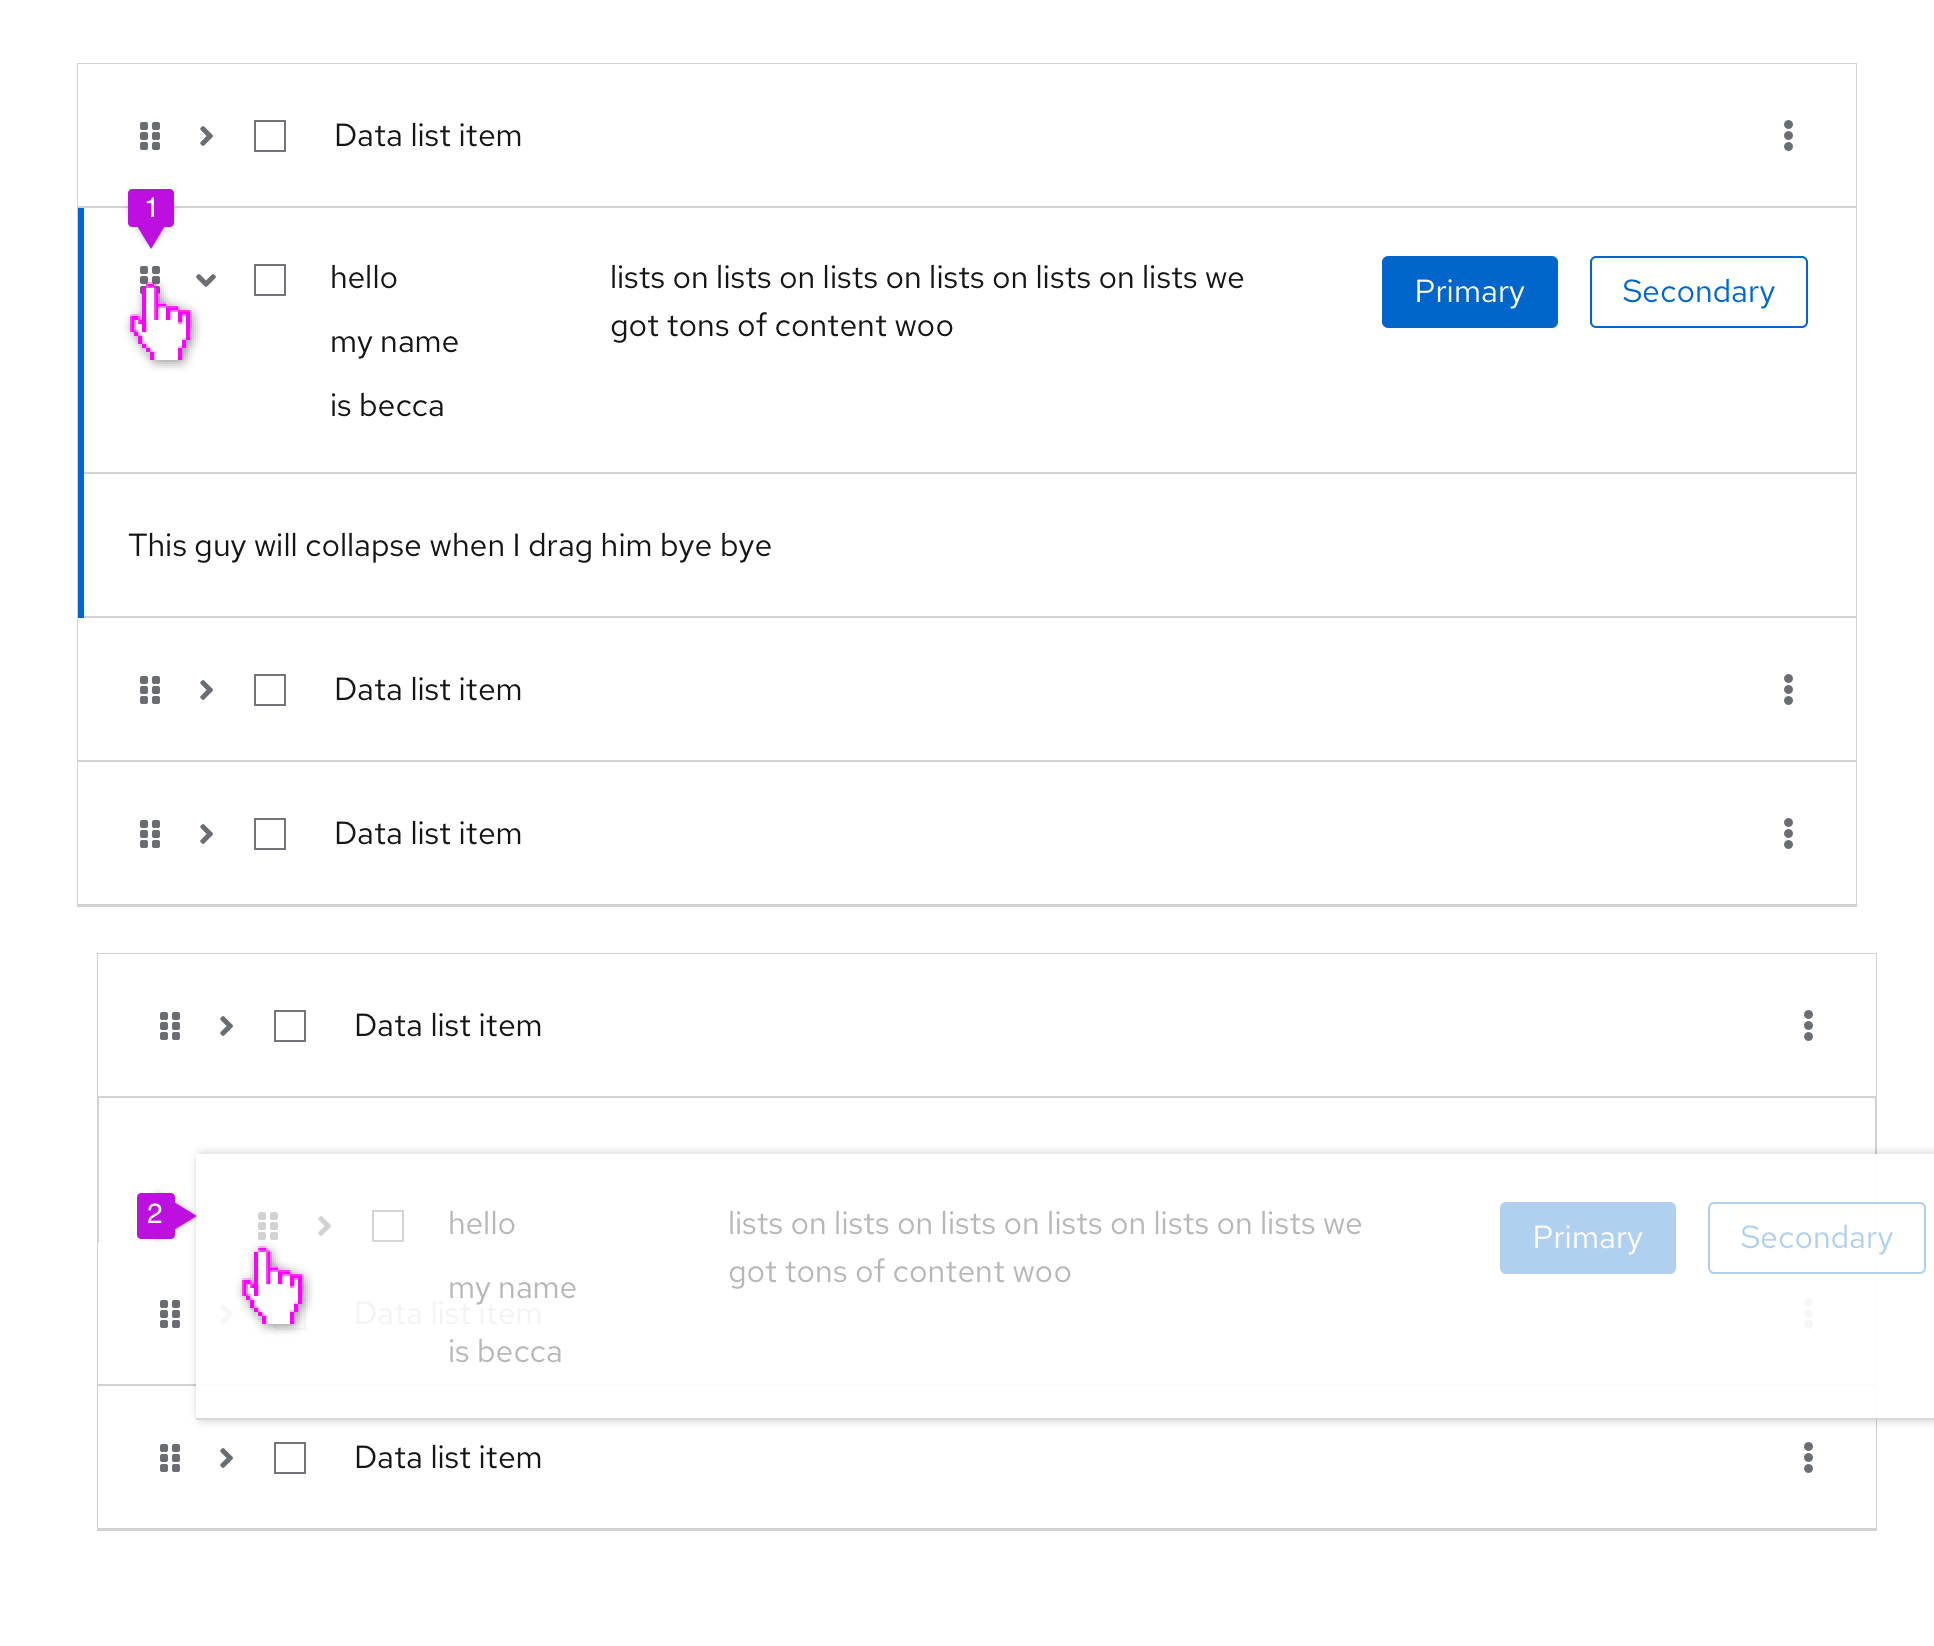
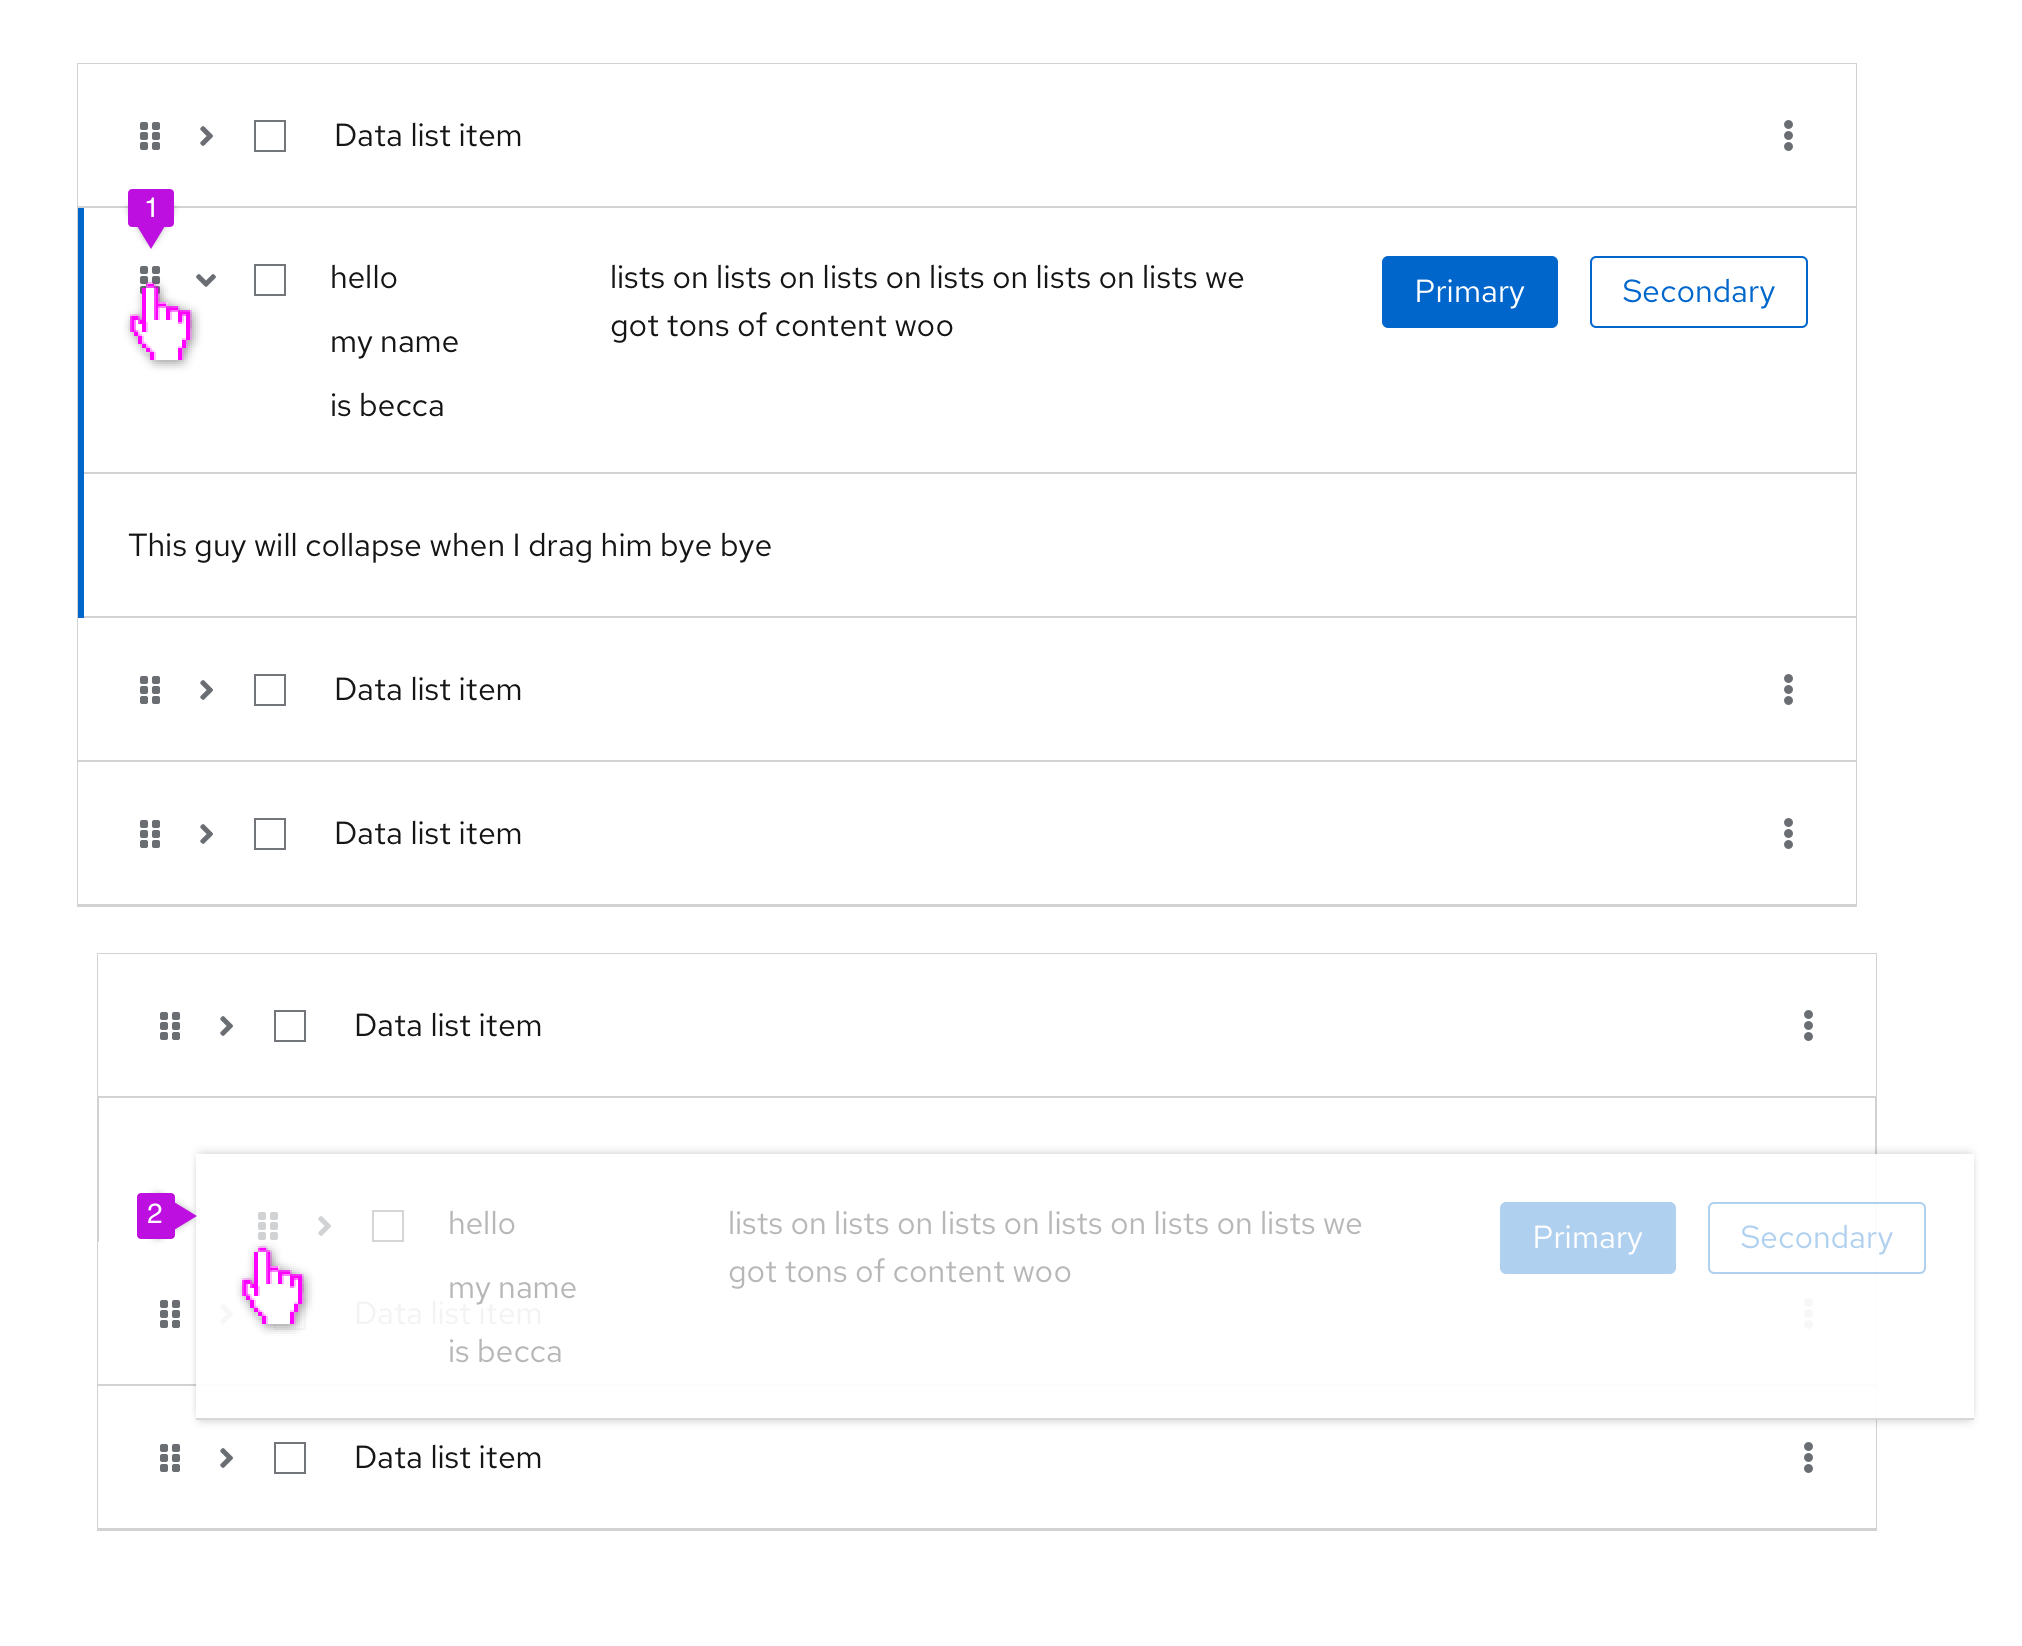
fixes

diff --git a/packages/v4/src/content/design-guidelines/components/data-list/data-list.md b/packages/v4/src/content/design-guidelines/components/data-list/data-list.md
@@ -88,7 +88,7 @@ Draggable data list rows can be added to any data list and allow you to customiz
 <img src="./img/datalistdraggable1.png" alt="Example of draggable date list" width="880"/> 
 
 1. **Drag icon:** To indicate a row is draggable, use the fa-grip icon. Use grip-vertical to indicate the ability to move a vertically-oriented component via drag and drop. Use grip-horizontal to move a horizontally-oriented component via drag and drop. For example, if you are selecting items to be dragged from two parallel lists.
-2. **Dragged row:** When dragging a row, it becomes slightly opaque and floats above the static rows to indicate that it is the one moving.
+2. **Dragged row:** When dragging a row, it becomes slightly less opaque and floats above the static rows to indicate that it is the one moving.
 
 <img src="./img/datalistdraggable2.png" alt="Example of draggable date list" width="880"/> 
 
@@ -133,7 +133,7 @@ A data list may sometimes need more space for rich graphical data. See an exampl
 * You will need a pagination to see more rows.
 * Data structure includes many visual elements.
 
-### When to use a data list vs. a table
+## When to use a data list vs. a table
 **Use a data list when**:
 * The information you want to display is not easily structured into a tabular format.
 * You want a more flexible layout within rows.
